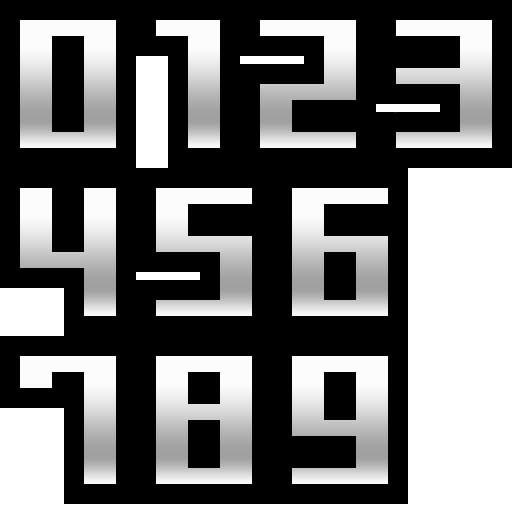
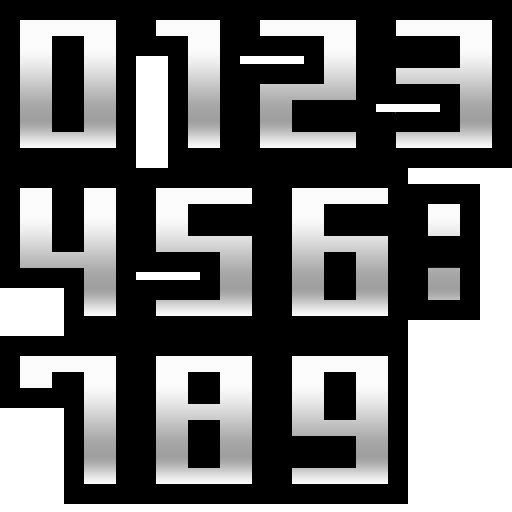
Update Timer to use Digits texture instead of own

Changed region(s): [[0.7812, 0.3438, 0.9375, 0.625]]

diff --git a/src/targets/sfml/TimerImpl.cpp b/src/targets/sfml/TimerImpl.cpp
@@ -28,15 +28,86 @@ void TimerImpl::updateGraphics() {
             tile = str[i];
         }
 
-        int tu = tile % (timer_tex.getSize().x / 90);
-        int tv = tile / (timer_tex.getSize().x / 90);
-
         sf::Vertex* quad = &m_timer_vert[i * 4];
 
-        quad[0].texCoords = sf::Vector2f(tu * 102.0f, tv * 160.0f);
-        quad[1].texCoords = sf::Vector2f((tu + 1) * 102.0f, tv * 160.0f);
-        quad[2].texCoords = sf::Vector2f((tu + 1) * 102.0f, (tv + 1) * 160.0f);
-        quad[3].texCoords = sf::Vector2f(tu * 102.0f, (tv + 1) * 160.0f);
+        switch(tile) {
+            case 0:
+            quad[0].texCoords = sf::Vector2f(0.0f, 0.0f);
+            quad[1].texCoords = sf::Vector2f(136.0f, 0.0f);
+            quad[2].texCoords = sf::Vector2f(136.0f, 168.0f);
+            quad[3].texCoords = sf::Vector2f(0.0f, 168.0f);
+            break;
+
+            case 1:
+            quad[0].texCoords = sf::Vector2f(136.0f, 0.0f);
+            quad[1].texCoords = sf::Vector2f(240.0f, 0.0f);
+            quad[2].texCoords = sf::Vector2f(240.0f, 168.0f);
+            quad[3].texCoords = sf::Vector2f(136.0F, 168.0f);
+            break;
+
+            case 2:
+            quad[0].texCoords = sf::Vector2f(240.0f, 0.0f);
+            quad[1].texCoords = sf::Vector2f(376.0f, 0.0f);
+            quad[2].texCoords = sf::Vector2f(376.0f, 168.0f);
+            quad[3].texCoords = sf::Vector2f(240.0f, 168.0f);
+            break;
+
+            case 3:
+            quad[0].texCoords = sf::Vector2f(376.0f, 0.0f);
+            quad[1].texCoords = sf::Vector2f(512.0f, 0.0f);
+            quad[2].texCoords = sf::Vector2f(512.0f, 168.0f);
+            quad[3].texCoords = sf::Vector2f(376.0f, 168.0f);
+            break;
+
+            case 4:
+            quad[0].texCoords = sf::Vector2f(0.0f, 168.0f);
+            quad[1].texCoords = sf::Vector2f(136.0f, 168.0f);
+            quad[2].texCoords = sf::Vector2f(136.0f, 336.0f);
+            quad[3].texCoords = sf::Vector2f(0.0f, 336.0f);
+            break;
+
+            case 5:
+            quad[0].texCoords = sf::Vector2f(136.0f, 168.0f);
+            quad[1].texCoords = sf::Vector2f(272.0f, 168.0f);
+            quad[2].texCoords = sf::Vector2f(272.0f, 336.0f);
+            quad[3].texCoords = sf::Vector2f(136.0f, 336.0f);
+            break;
+
+            case 6:
+            quad[0].texCoords = sf::Vector2f(272.0f, 168.0f);
+            quad[1].texCoords = sf::Vector2f(408.0f, 168.0f);
+            quad[2].texCoords = sf::Vector2f(408.0f, 336.0f);
+            quad[3].texCoords = sf::Vector2f(272.0f, 336.0f);
+            break;
+
+            case 7:
+            quad[0].texCoords = sf::Vector2f(0.0f, 336.0f);
+            quad[1].texCoords = sf::Vector2f(136.0f, 336.0f);
+            quad[2].texCoords = sf::Vector2f(136.0f, 504.0f);
+            quad[3].texCoords = sf::Vector2f(0.0f, 504.0f);
+            break;
+
+            case 8:
+            quad[0].texCoords = sf::Vector2f(136.0f, 336.0f);
+            quad[1].texCoords = sf::Vector2f(272.0f, 336.0f);
+            quad[2].texCoords = sf::Vector2f(272.0f, 504.0f);
+            quad[3].texCoords = sf::Vector2f(136.0f, 504.0f);
+            break;
+
+            case 9:
+            quad[0].texCoords = sf::Vector2f(272.0f, 336.0f);
+            quad[1].texCoords = sf::Vector2f(408.0f, 336.0f);
+            quad[2].texCoords = sf::Vector2f(408.0f, 504.0f);
+            quad[3].texCoords = sf::Vector2f(272.0f, 504.0f);
+            break;
+
+            case 10:
+            quad[0].texCoords = sf::Vector2f(409.0f, 168.0f);
+            quad[1].texCoords = sf::Vector2f(480.0f, 168.0f);
+            quad[2].texCoords = sf::Vector2f(480.0f, 336.0f);
+            quad[3].texCoords = sf::Vector2f(409.0f, 336.0f);
+            break;
+        }
     }
 }
 
@@ -45,32 +116,31 @@ void TimerImpl::updateSize(Stack *stack) {
     int pos_y = stack->m_pos_y + tile_size * 21;
 
     int offset = 0;
-    float factor = 91.0f;
+    float factor = 131.0f;
 
     for (unsigned int i = 0; i < 8; ++i) {
         sf::Vertex* quad = &m_timer_vert[i * 4];
 
         if (i == 2 || i == 5) {
             // Separator
-            int p_x = pos_x + offset - (26.0f * tile_size / factor);
-            quad[0].position = sf::Vector2f(p_x, pos_y);
-            quad[1].position = sf::Vector2f(p_x + (int) (102.0f * tile_size / factor), pos_y);
-            quad[2].position = sf::Vector2f(p_x + (int) (102.0f * tile_size / factor), pos_y + (int) (160.0f * tile_size / factor));
-            quad[3].position = sf::Vector2f(p_x, pos_y + (int) (160.0f * tile_size / factor));
+            quad[0].position = sf::Vector2f(pos_x + offset, pos_y);
+            quad[1].position = sf::Vector2f(pos_x + offset + (int) (72.0f * tile_size / factor), pos_y);
+            quad[2].position = sf::Vector2f(pos_x + offset + (int) (72.0f * tile_size / factor), pos_y + (int) (168.0f * tile_size / factor));
+            quad[3].position = sf::Vector2f(pos_x + offset, pos_y + (int) (168.0f * tile_size / factor));
 
-            offset += 30.0f * tile_size / factor;
+            offset += 72.0f * tile_size / factor;
         } else {
             // Digits
             quad[0].position = sf::Vector2f(pos_x + offset, pos_y);
-            quad[1].position = sf::Vector2f(pos_x + offset + (int) (102.0f * tile_size / factor), pos_y);
-            quad[2].position = sf::Vector2f(pos_x + offset + (int) (102.0f * tile_size / factor), pos_y + (int) (160.0f * tile_size / factor));
-            quad[3].position = sf::Vector2f(pos_x + offset, pos_y + (int) (160.0f * tile_size / factor));
+            quad[1].position = sf::Vector2f(pos_x + offset + (int) (136.0f * tile_size / factor), pos_y);
+            quad[2].position = sf::Vector2f(pos_x + offset + (int) (136.0f * tile_size / factor), pos_y + (int) (168.0f * tile_size / factor));
+            quad[3].position = sf::Vector2f(pos_x + offset, pos_y + (int) (168.0f * tile_size / factor));
 
-            offset += 80.0f * tile_size / factor;
+            offset += 136.0f * tile_size / factor;
         }
     }
 }
 
 void TimerImpl::draw(sf::RenderTarget& target, sf::RenderStates states) const {
-    target.draw(m_timer_vert, &timer_tex);
+    target.draw(m_timer_vert, &digits_tex);
 }
